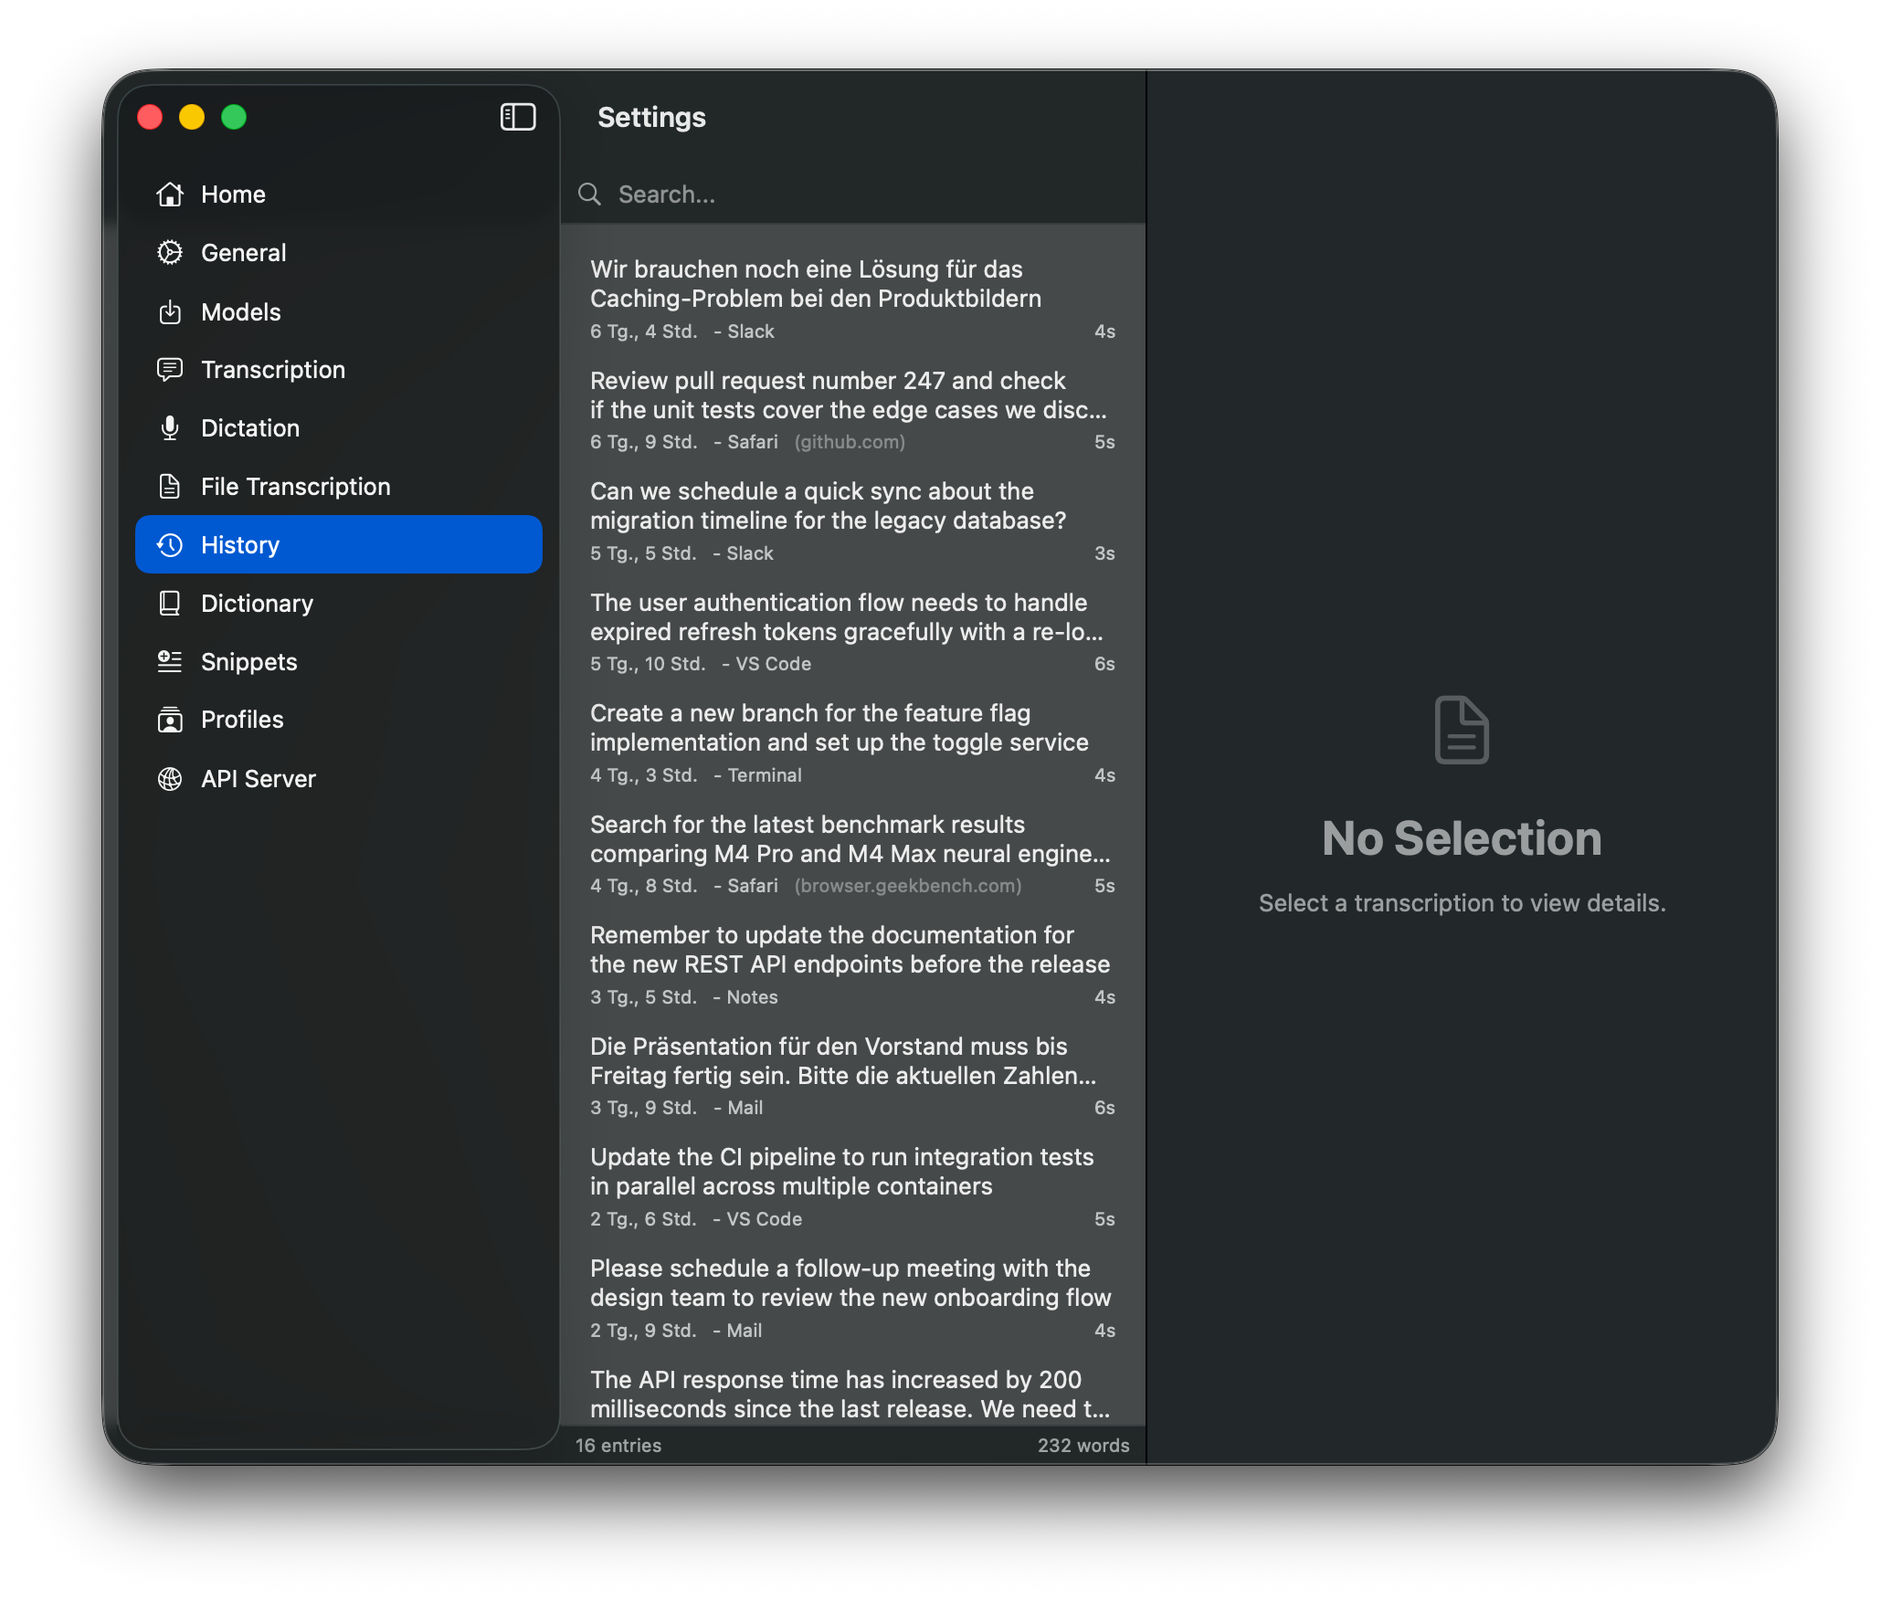
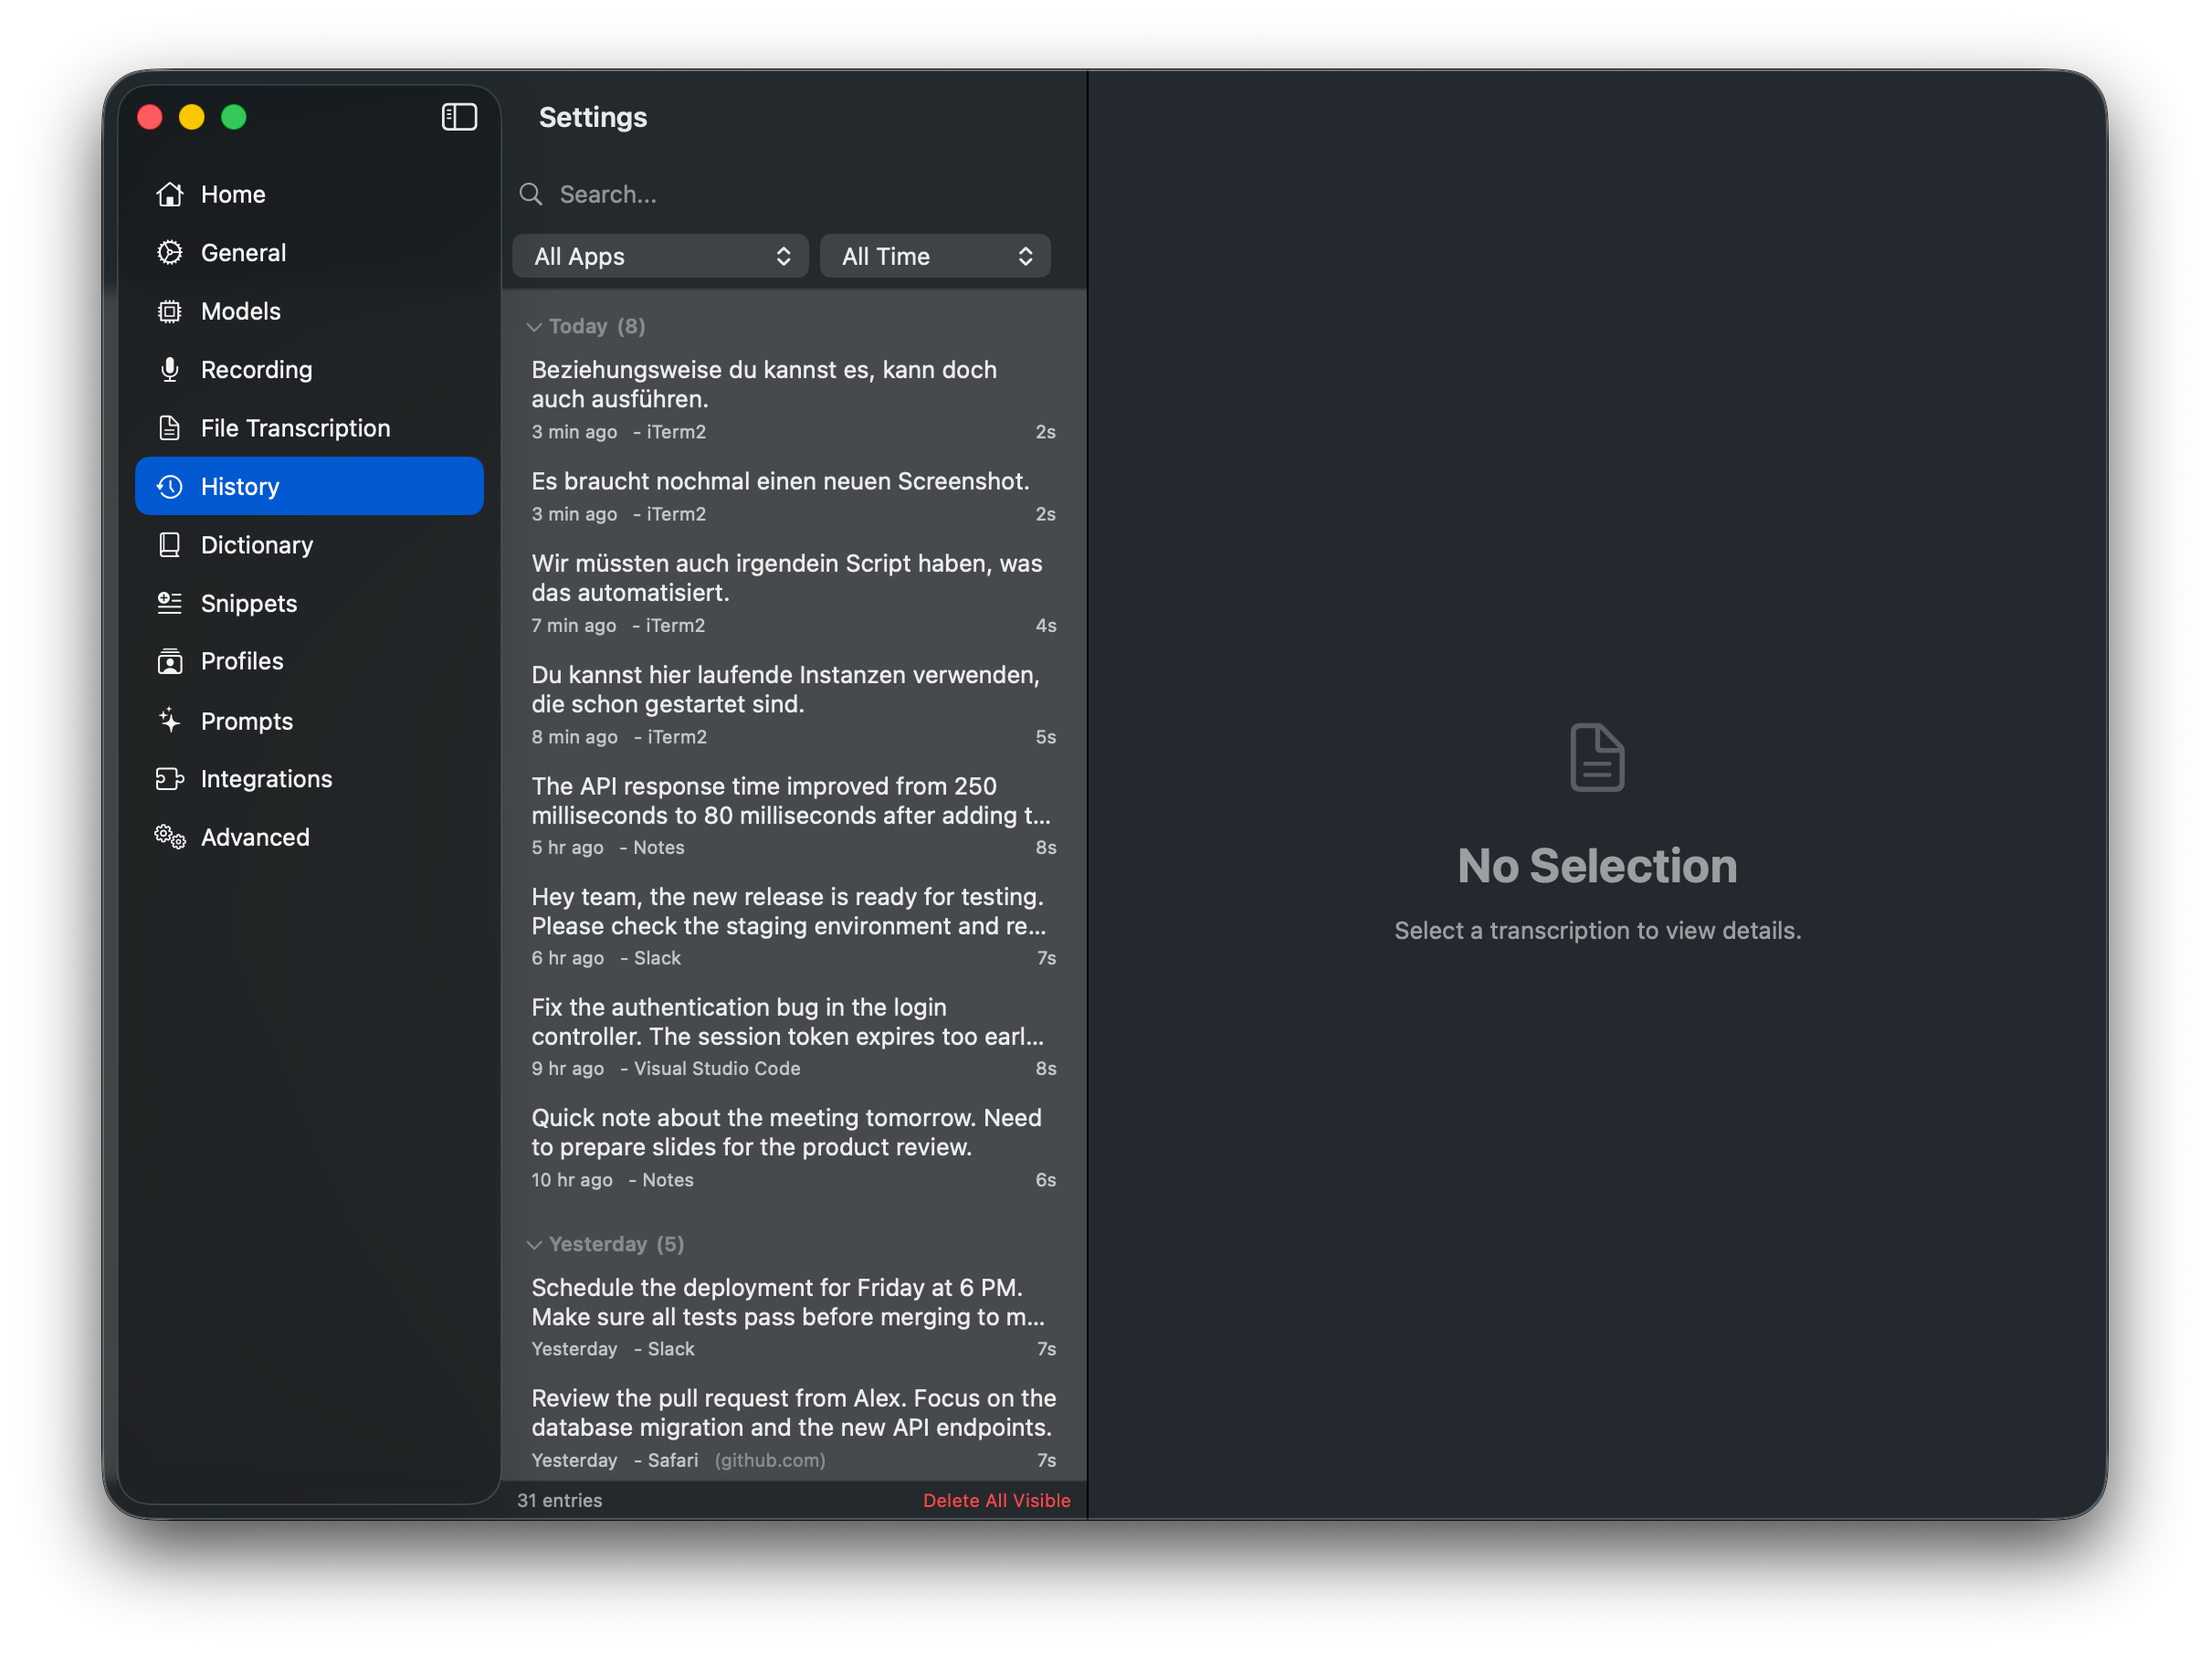
update: refresh screenshots and clean up README layout
Retake all screenshots with current UI. Add missing tabs (File
Transcription, Advanced), rename Dictation to Recording. Make all
screenshot thumbnails 270px with clickable full-size links. Fix
screenshot script to reuse running instance with --skip-build.

Changed region(s): [[0.0311, 0.0308, 0.964, 0.9555]]

diff --git a/README.md b/README.md
@@ -7,43 +7,49 @@
 Speech-to-text and AI text processing for macOS. Transcribe audio using on-device AI models or cloud APIs (Groq, OpenAI), then process the result with custom LLM prompts. Your voice data stays on your Mac with local models - or use cloud APIs for faster processing.
 
 <p align="center">
-  <video src="https://github.com/user-attachments/assets/98e1aef9-de31-434b-aa13-cfd36c0f3155" autoplay loop muted playsinline width="700"></video>
+  <video src="https://github.com/user-attachments/assets/98e1aef9-de31-434b-aa13-cfd36c0f3155" autoplay loop muted playsinline width="270"></video>
 </p>
 
 ## Screenshots
 
 <p align="center">
-  <img src=".github/screenshots/home.png" width="700" alt="Home Dashboard">
+  <a href=".github/screenshots/home.png"><img src=".github/screenshots/home.png" width="270" alt="Home Dashboard"></a>
 </p>
 
 <p align="center">
-  <img src=".github/screenshots/models.png" width="340" alt="Model Manager">
-  <img src=".github/screenshots/prompts.png" width="340" alt="Custom Prompts">
+  <a href=".github/screenshots/models.png"><img src=".github/screenshots/models.png" width="270" alt="Model Manager"></a>
 </p>
 
 <p align="center">
-  <img src=".github/screenshots/dictation.png" width="700" alt="Hotkey Configuration">
+  <a href=".github/screenshots/prompts.png"><img src=".github/screenshots/prompts.png" width="270" alt="Custom Prompts"></a>
 </p>
 
 <p align="center">
-  <img src=".github/screenshots/dictionary.png" width="340" alt="Dictionary">
-  <img src=".github/screenshots/snippets.png" width="340" alt="Snippets">
+  <a href=".github/screenshots/recording.png"><img src=".github/screenshots/recording.png" width="270" alt="Hotkey Configuration"></a>
 </p>
 
 <p align="center">
-  <img src=".github/screenshots/general.png" width="340" alt="General Settings">
+  <a href=".github/screenshots/dictionary.png"><img src=".github/screenshots/dictionary.png" width="270" alt="Dictionary"></a>
 </p>
 
 <p align="center">
-  <img src=".github/screenshots/history.png" width="700" alt="Transcription History">
+  <a href=".github/screenshots/snippets.png"><img src=".github/screenshots/snippets.png" width="270" alt="Snippets"></a>
 </p>
 
 <p align="center">
-  <img src=".github/screenshots/profiles.png" width="700" alt="Profiles with App & URL Matching">
+  <a href=".github/screenshots/general.png"><img src=".github/screenshots/general.png" width="270" alt="General Settings"></a>
 </p>
 
 <p align="center">
-  <img src=".github/screenshots/plugins.png" width="700" alt="Plugin Integrations">
+  <a href=".github/screenshots/history.png"><img src=".github/screenshots/history.png" width="270" alt="Transcription History"></a>
+</p>
+
+<p align="center">
+  <a href=".github/screenshots/profiles.png"><img src=".github/screenshots/profiles.png" width="270" alt="Profiles with App & URL Matching"></a>
+</p>
+
+<p align="center">
+  <a href=".github/screenshots/plugins.png"><img src=".github/screenshots/plugins.png" width="270" alt="Plugin Integrations"></a>
 </p>
 
 ## Features
